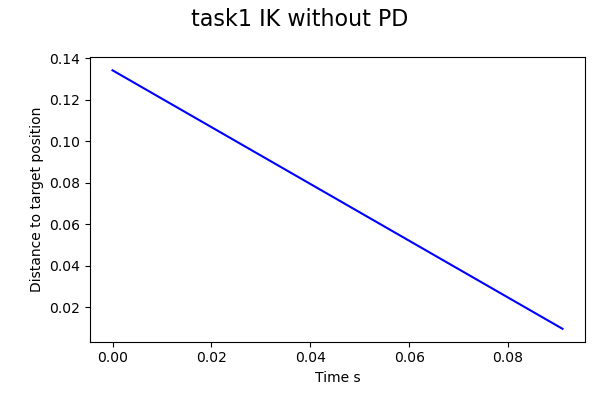
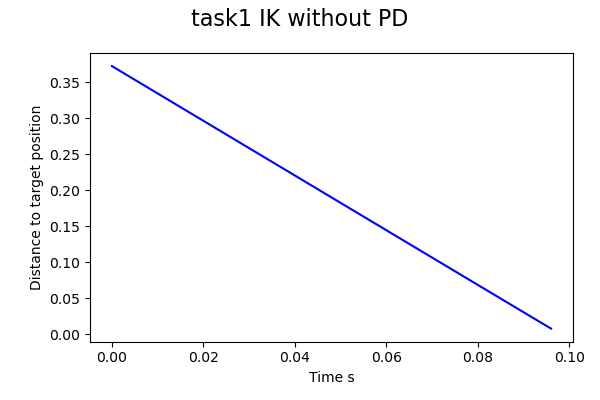
3_1 working on

diff --git a/core/Pybullet_Simulation.py b/core/Pybullet_Simulation.py
@@ -409,24 +409,24 @@ class Simulation(Simulation_base):
 
         joints = self.getEndEffPath(endEffector)
         angles = self.inverseKinematics(endEffector, targetPosition, orientation, maxIter, threshold)
-        
         for n in range(0, len(angles)-1):
             for j in range(0,len(joints)): 
                 self.jointTargetPos[joints[j]] = angles[n+1][j]
                 self.jointPositionOld[joints[j]] = angles[n][j]
 
-            if task == "task_31":
-                self.jointTargetPos["LARM_JOINT5"] = -( self.getJointPos("CHEST_JOINT0") + self.getJointPos("LARM_JOINT0") )
-                self.jointTargetPos["RARM_JOINT5"] = -( self.getJointPos("CHEST_JOINT0") + self.getJointPos("RARM_JOINT0") )
-            elif task == "task_32":
-                self.jointTargetPos["LARM_JOINT5"] = -( self.getJointPos("LARM_JOINT0") ) + np.pi
-                self.jointTargetPos["RARM_JOINT5"] = -( self.getJointPos("RARM_JOINT0") ) + np.pi
+            #if task == "task_31":
+            #    self.jointTargetPos["LARM_JOINT5"] = -( self.getJointPos("CHEST_JOINT0") + self.getJointPos("LARM_JOINT0") )
+            #    self.jointTargetPos["RARM_JOINT5"] = -( self.getJointPos("CHEST_JOINT0") + self.getJointPos("RARM_JOINT0") )
+            #elif task == "task_32":
+            #    self.jointTargetPos["LARM_JOINT5"] = -( self.getJointPos("LARM_JOINT0") ) + np.pi
+            #    self.jointTargetPos["RARM_JOINT5"] = -( self.getJointPos("RARM_JOINT0") ) + np.pi
 
             self.tick()
-            pltTime.append(n*self.dt)
+
             tp = np.transpose(np.array([targetPosition]))
             efp = self.getJointPosition(endEffector)
 
+            pltTime.append(n*self.dt)
             pltDistance.append(np.linalg.norm(efp-tp))
 
             if np.linalg.norm((tp - efp)) < threshold:
@@ -506,26 +506,29 @@ class Simulation(Simulation_base):
         return np.array(EFStates)
 
     # Task 3.1 Pushing
-    def dockingToPosition(self, leftTargetAngle, rightTargetAngle, angularSpeed=0.005,
+    def dockingToPosition(self, leftTargetAngle, rightTargetAngle, angularSpeed=1.0,
             threshold=1e-1, maxIter=300, verbose=False):
         """A template function for you, you are free to use anything else"""
         # TODO: Append your code here
+
+        self.move_with_PD('RARM_JOINT5', [0.37, -0.23, 1.05], speed=1.0, orientation=[1,0,0], threshold=1e-1, maxIter=1000, debug=False, verbose=False, task='default')
         targetstatesDocking = self.cubic_interpolation([np.array([0.37, 0.23, 0.871]),
                                                         np.array([0.37, 0.23, 1.05]),
-                                                        np.array([0.37, -0.05, 1.05]),
-                                                        np.array([0.21, -0.05, 1.0])],100)
+                                                        np.array([0.37, -0.05, 1.1]),
+                                                        np.array([0.21, -0.045, 1.1])],5)
         
-        targetstatesLowering = self.cubic_interpolation([np.array([0.21, -0.05, 1.0]),
-                                                         np.array([0.21, -0.05, 0.92])],100)
+        targetstatesLowering = self.cubic_interpolation([np.array([0.21, -0.045, 1.1]),
+                                                         np.array([0.21, -0.045, 0.96])],2)
         
-        targetstatesPushing = self.cubic_interpolation([np.array([0.21, -0.05, 0.92]),
-                                                        np.array([0.58, -0.05, 0.92])],100)
+        targetstatesPushing = self.cubic_interpolation([np.array([0.21, -0.045, 0.96]),
+                                                        np.array([0.58, -0.045, 0.96])],5)
 
                           
         targetstates = np.concatenate((targetstatesDocking, targetstatesLowering,targetstatesPushing))
         for s in targetstates:
-            tp = np.array([s[0],s[1],s[2]])
-            self.move_with_PD("LARM_JOINT5", targetPosition=tp, speed=0.000001, orientation=[1,0,0], threshold=1e-3, maxIter=2, debug=True, verbose=False,task = "task_31")
+            tp = np.array(s)
+            taro = [1,0,0]
+            self.move_with_PD("LARM_JOINT5", targetPosition=tp, speed=1.0, orientation=taro, threshold=1e-3, maxIter=500, debug=False, verbose=False,task = "default")
             
         time.sleep(10)
 
@@ -538,12 +541,12 @@ class Simulation(Simulation_base):
                                                       [0.37,0.1,1.05],
                                                       [0.37,0.1,1.05],
                                                       [0.43,0.275,1.05],
-                                                      [0.35,0.38,1]]),1000)
+                                                      [0.35,0.38,1]]),5)
 
         targetstatesR = self.cubic_interpolation(np.array([[0.37,-0.23,0.871],
                                                       [0.40,0.1,1.05],
                                                       [0.43,0.075,1.05],
-                                                      [0.35,0.18,1.05] ]),1000)
+                                                      [0.35,0.18,1.05] ]),5)
         for s in range(0, len(targetstatesL)):
             tpL = np.array([targetstatesL[s][0],targetstatesL[s][1],targetstatesL[s][2]])
             tpR = np.array([targetstatesR[s][0],targetstatesR[s][1],targetstatesR[s][2]])

diff --git a/task3_1/task3_1_pushing.py b/task3_1/task3_1_pushing.py
@@ -91,9 +91,15 @@ def getReadyForTask():
 
 def solution():
     # TODO: Add your code here
-    sim.dockingToPosition(0, 0, angularSpeed=0.005, threshold=1e-1, maxIter=500, verbose=False)
+    sim.dockingToPosition(0, 0, angularSpeed=1.0, threshold=1e-1, maxIter=500, verbose=False)
+    #sim.move_with_PD('LARM_JOINT5', [0.37, 0.23, 1.06], speed=0.01, orientation=np.array([1,0,0]), threshold=1e-3, maxIter=1000, debug=True, verbose=False, task="default")
+    #sim.move_with_PD('LARM_JOINT5', [0.37, -0.05, 1.06], speed=0.01, orientation=np.array([1,0,0]), threshold=1e-3, maxIter=1000, debug=True, verbose=False, task="default")
+    #sim.move_with_PD('LARM_JOINT5', [0.15, -0.045, 1.06], speed=0.01, orientation=np.array([1,0,0]), threshold=1e-3, maxIter=1000, debug=True, verbose=False, task="default")
+    #sim.move_with_PD('LARM_JOINT5', [0.15, -0.045, 0.96], speed=0.01, orientation=np.array([1,0,0]), threshold=1e-3, maxIter=1000, debug=True, verbose=False, task="default")
+    #sim.move_with_PD('LARM_JOINT5', [0.42, -0.04, 0.96], speed=0.01, orientation=np.array([1,0,0]), threshold=1e-3, maxIter=1000, debug=True, verbose=False, task="default")
+    #sim.move_with_PD('LARM_JOINT5', [0.42, -0.04, 0.96], speed=0.01, orientation=np.array([1,0,0]), threshold=1e-3, maxIter=1000, debug=True, verbose=False, task="default")
 
-
+    time.sleep(10)
 
 tableId, cubeId, targetId = getReadyForTask()
 solution()

diff --git a/task2/task2.py b/task2/task2.py
@@ -46,8 +46,9 @@ robotConfigs = {
 }
 sim = Simulation(pybulletConfigs, robotConfigs)
 
-# This is an example target (angular) position for the joint LARM_JOINT2
-task2_jointName = "HEAD_JOINT0"
+# This is an example target (a
+# ngular) position for the joint LARM_JOINT2
+task2_jointName = "LARM_JOINT5"
 task2_targetPosition = np.deg2rad(45)  # joint (angular) position in radians
 task2_targetVelocity = 0.0  # joint (angular) velocity in radians per second
 verbose = False
@@ -55,14 +56,14 @@ task2_figure_name = "task2_PD_response.png"
 task2_savefig = True
 ### to here
 
-endEffector = "LARM_JOINT5"
-targetPosition = np.array([0.21, -0.07, 1.05])
+endEffector = "RARM_JOINT5"
+targetPosition = np.array([0.37, -0.23, 1.1])
 
-pltTime, pltEFPosition = sim.move_with_PD(endEffector, targetPosition, speed=0.001, orientation=np.array([1,0,0]), threshold=1e-3, maxIter=500, debug=True, verbose=False, task="default")
+pltTime, pltEFPosition = sim.move_with_PD(endEffector, targetPosition, speed=0.01, orientation=np.array([0,1,0]), threshold=1e-3, maxIter=1000, debug=True, verbose=False, task="default")
 #print(sim.getJointPosition(endEffector))
 #print()
 #print(sim.getJointOrientation(endEffector))
-Task2_figure_name = "TASK2_KINEMATICS.png"
+#Task2_figure_name = "LARM_JOINT5.png"
 
 # ...
 fig = plt.figure(figsize=(6, 4))

diff --git a/task1/task1.py b/task1/task1.py
@@ -92,7 +92,7 @@ sim = Simulation(pybulletConfigs, robotConfigs, refVect=ref)
 endEffector = "LARM_JOINT5"
   # x,y,z coordinates in world frame
 # Example code. Feel free to modify
-task31_pre()
+#task31_pre()
 pltTime, pltEFPosition = sim.move_without_PD(endEffector, targetPosition = np.array([0.6, 0, 1.06]), speed=0.01, orientation=np.array([0,1,0]), threshold=1e-2, maxIter=100, debug=False, verbose=False,task = "task_31")
 # Now plot some graphs
 task1_figure_name = "task1_kinematics.png"
